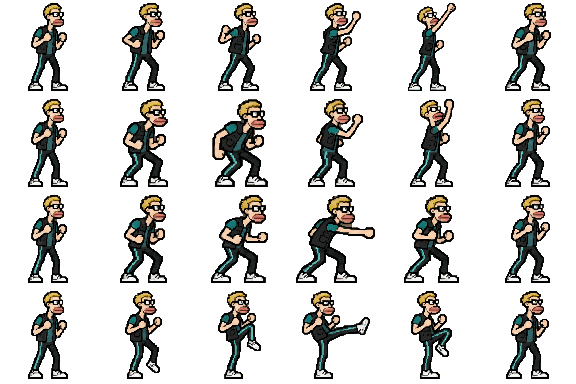
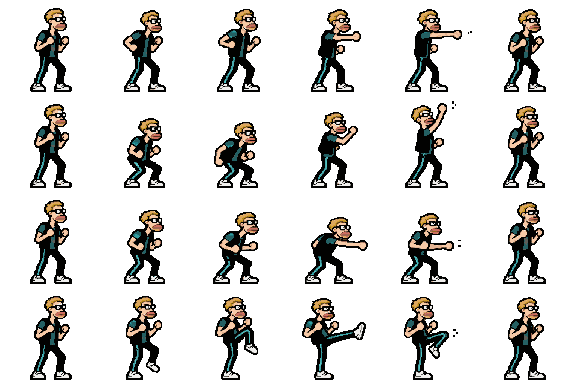
Improve Beicola attack and special sprites

diff --git a/src/beicola.js b/src/beicola.js
@@ -2,6 +2,7 @@
 
 // Sprites do Beiçola: corpo, ataques e vento/som são atlas independentes.
 const beicolaAttacks=imageAsset('assets/fighters/beicola_attacks.png');
+const beicolaSpecials=imageAsset('assets/fighters/beicola_specials.png');
 const beicolaResults=imageAsset('assets/fighters/beicola_results.png');
 const beicolaEffects=imageAsset('assets/fighters/beicola_fx.png');
 
@@ -25,6 +26,15 @@ function drawBeicola(f,t){
    drawBeicolaAtlasFrame(beicolaResults,frame,4,96,f.c.size*1.28/96);
    return true;
   }
+ }
+ if((f.action==='special'||f.action==='ultimate')&&beicolaSpecials.naturalWidth){
+  const move=f.powerMove;
+  const slot=move?.slot??(f.action==='ultimate'?2:0);
+  const progress=move?clamp(move.elapsed/Math.max(.01,move.duration),0,1):0;
+  const col=clamp(Math.floor(progress*6),0,5);
+  const row=f.action==='ultimate'?2:slot===1?1:0;
+  drawBeicolaAtlasFrame(beicolaSpecials,row*6+col,6,96,f.c.size*1.28/96);
+  return true;
  }
  if(f.action==='attack'&&beicolaAttacks.naturalWidth){
   const move=f.basicMove||{duration:.4};
